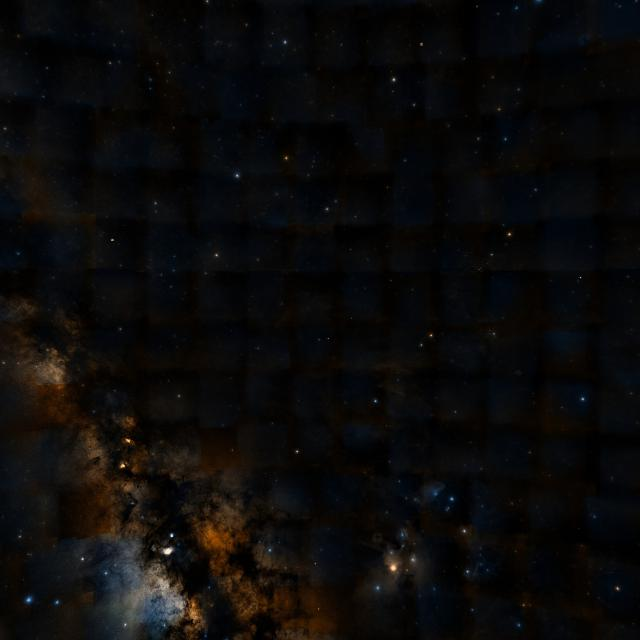
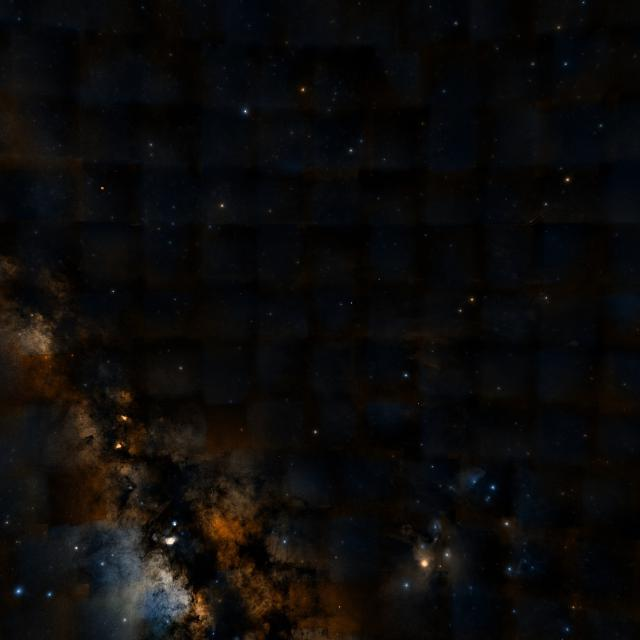
Fix Ophiuchus photo framing and adjust Cepheus ra
Re-download Oph.jpg with corrected ra/dec/fov to match diagram.
Adjust Cepheus ra from 323.3 to 332.3.

diff --git a/js/data.js b/js/data.js
@@ -133,7 +133,7 @@ const C = [
   },
 
   {
-    name: "Cepheus", abbr: "Cep", hem: "N", diff: 2, ra: 323.3, dec: 67.9, fov: 31.2,
+    name: "Cepheus", abbr: "Cep", hem: "N", diff: 2, ra: 332.3, dec: 67.9, fov: 31.2,
     stars: [[311.322165, 61.838782, 3.4], [319.64445, 62.585573, 2.5], [322.16492999999997, 70.560716, 3.2, 'b'], [342.4203, 66.200408, 3.5, 'o'], [354.83729999999997, 77.632276, 3.2, 'o'], [337.292745, 58.415198, 4.1], [332.71362, 58.201261, 3.4, 'r'], [333.75816000000003, 57.043587, 4.2], [325.876905, 58.780046, 4.2], [307.395225, 62.994105, 4.2]],
     lines: [[0, 1], [1, 2], [2, 3], [3, 2], [2, 4], [4, 3], [3, 5], [5, 6], [6, 7], [7, 8], [8, 1], [9, 0]]
   },
